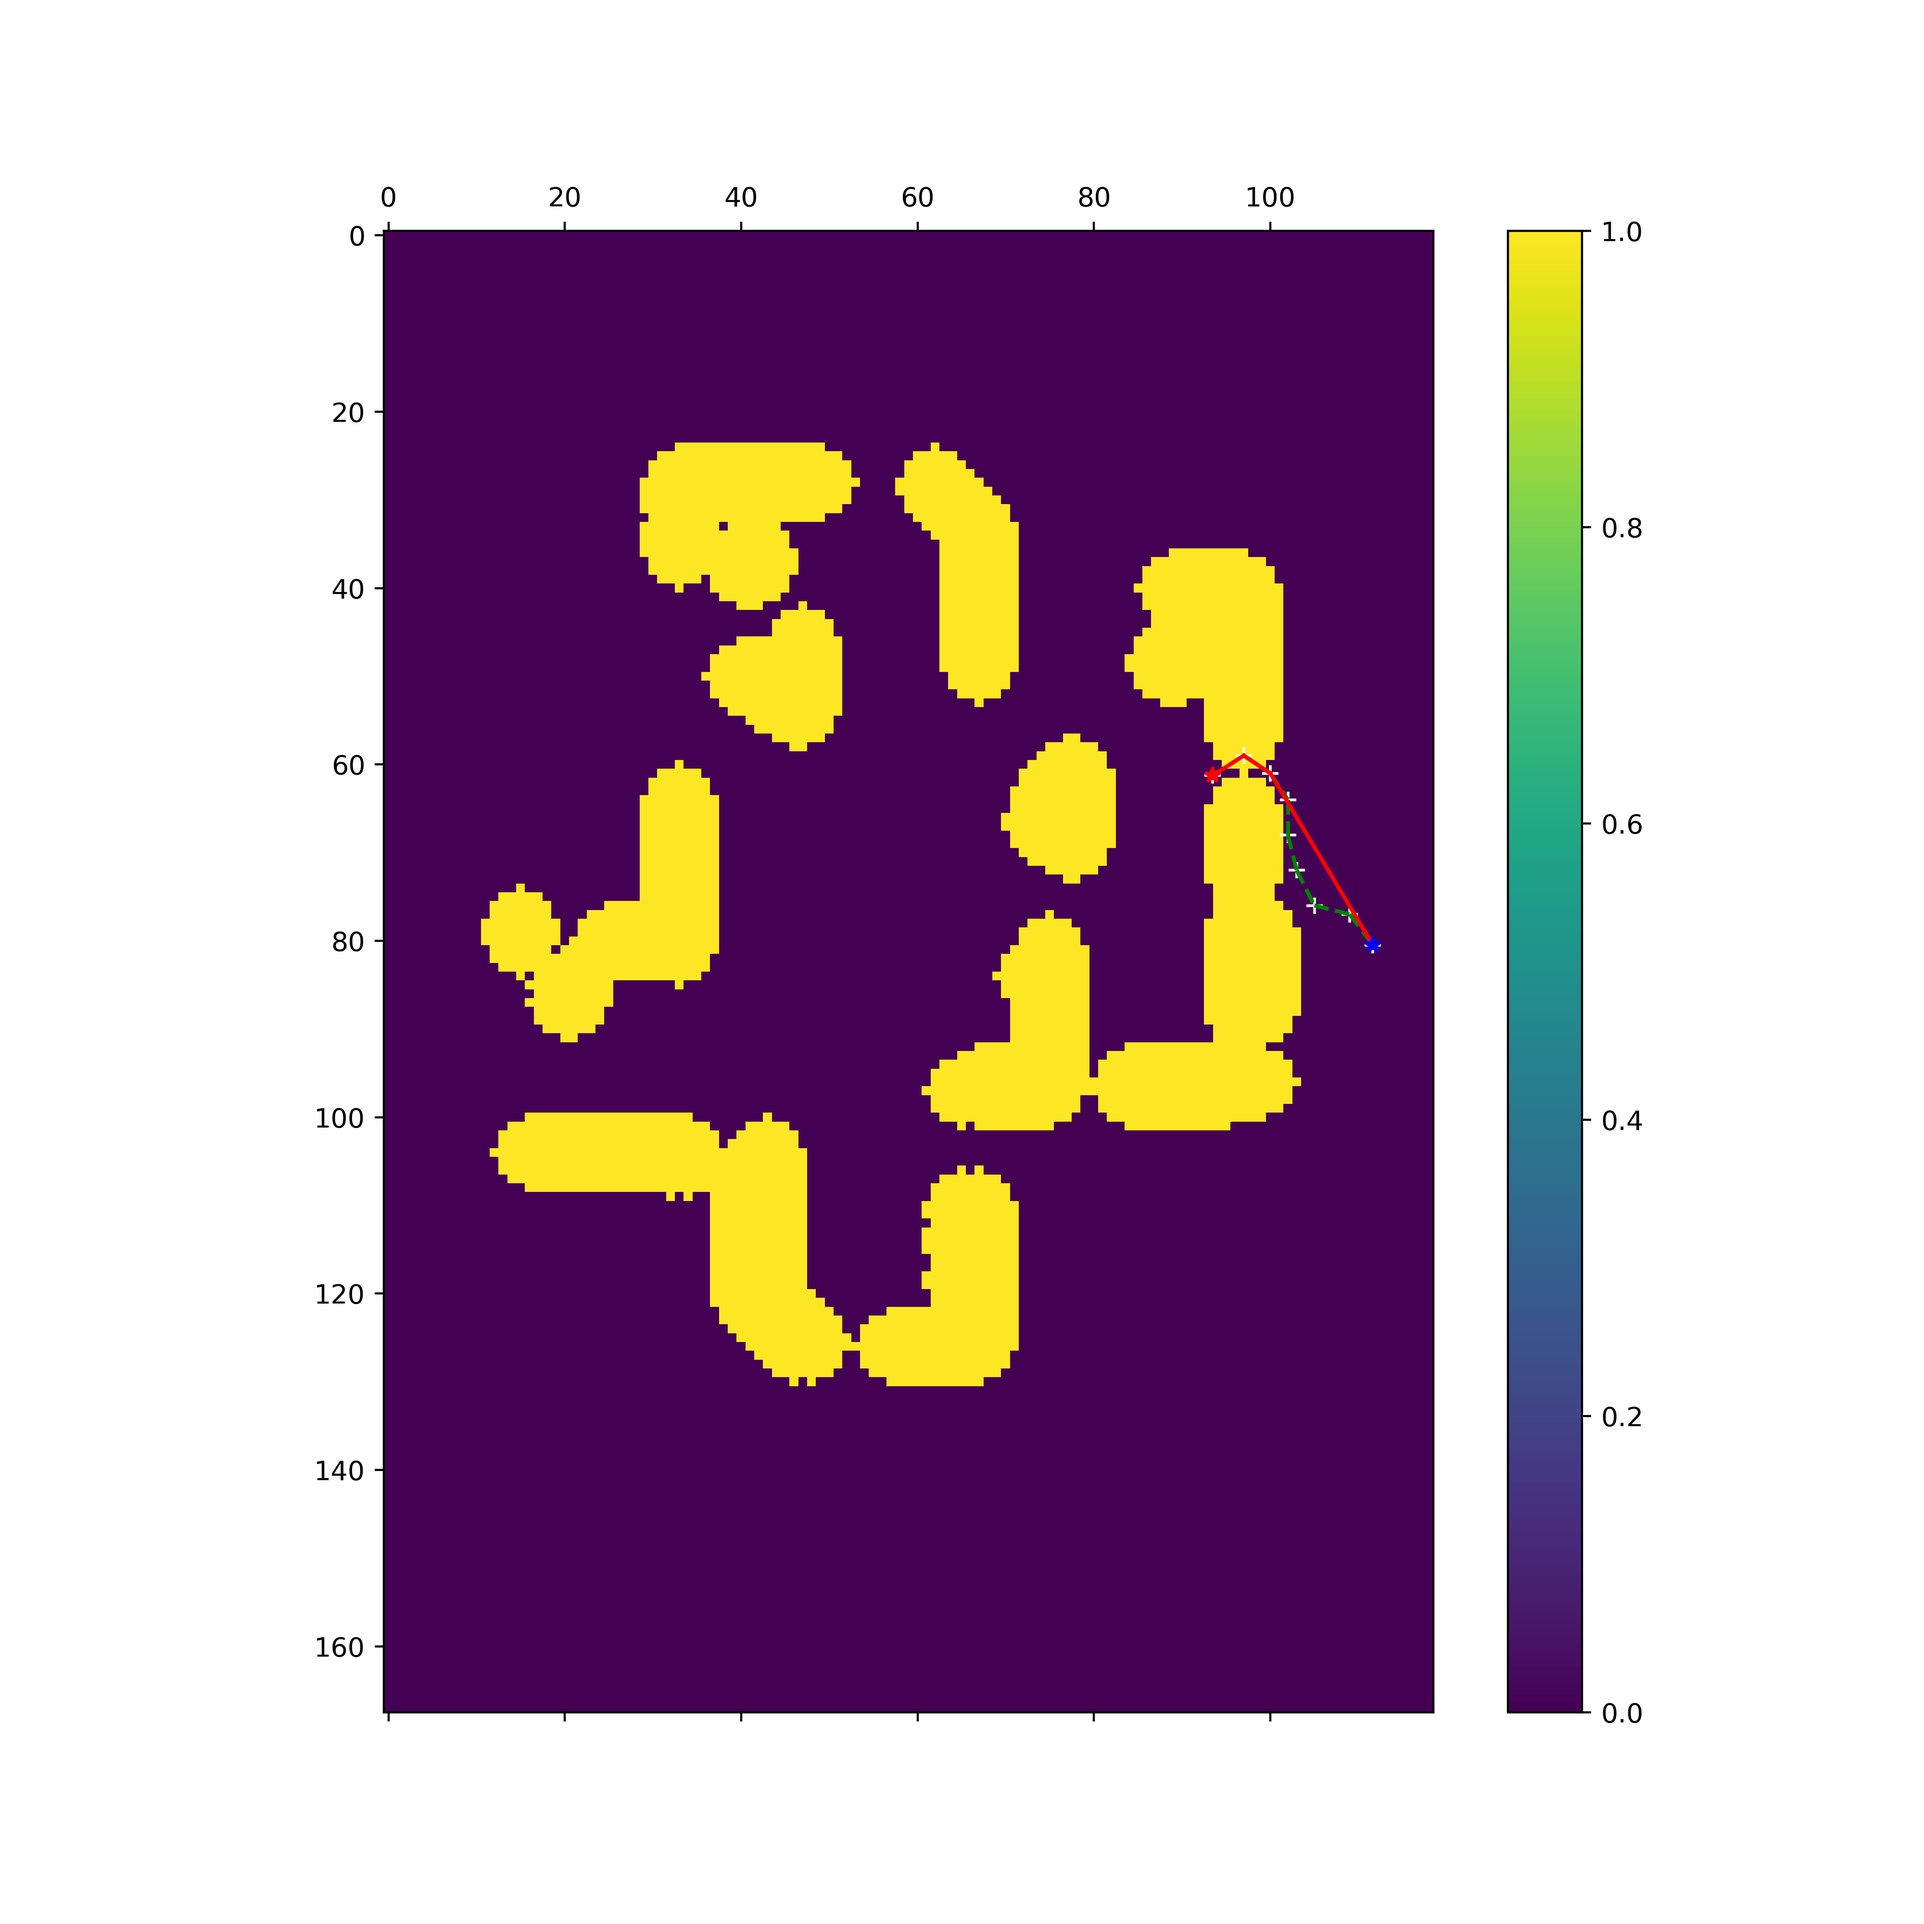
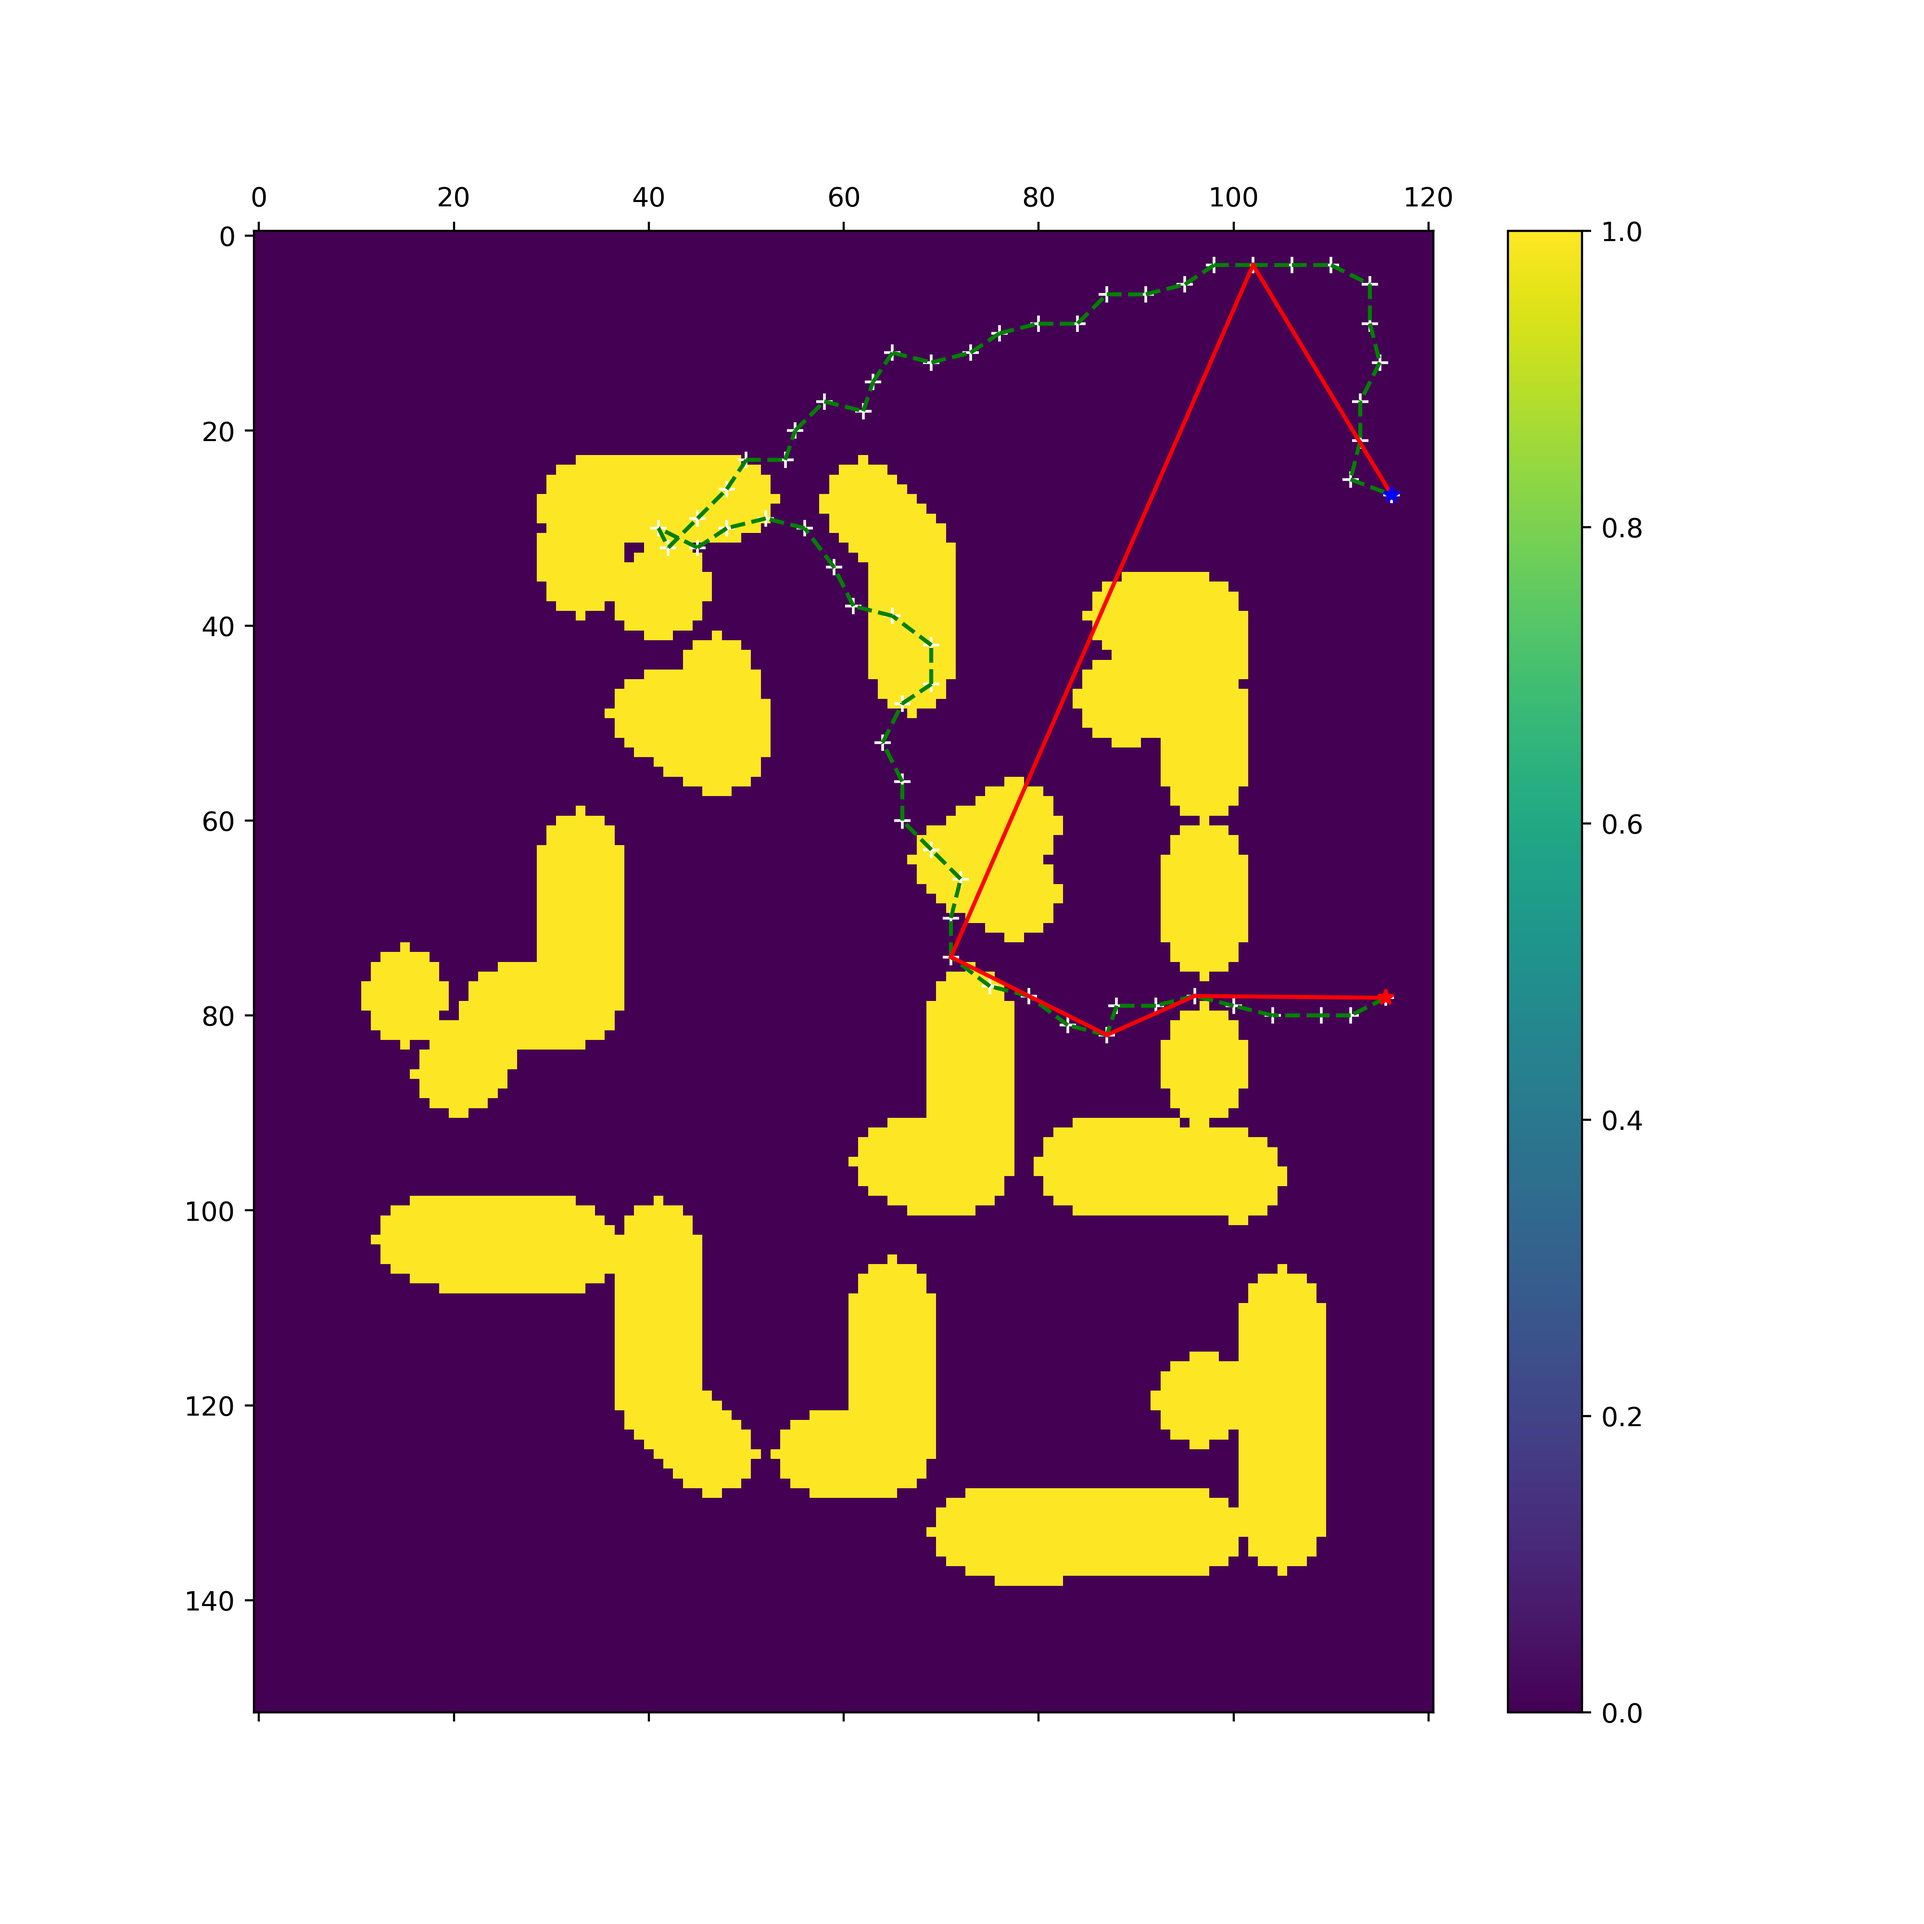
modified _dwa_obstacle_cost function

Changed region(s): [[0.125, 0.0938, 0.7188, 0.9062], [0.6875, 0.1875, 0.7188, 0.25], [0.625, 0.0938, 0.6562, 0.1562]]

diff --git a/src/online_motion_planning/online_motion_planning/frontier_birrt_tb.py b/src/online_motion_planning/online_motion_planning/frontier_birrt_tb.py
@@ -1402,8 +1402,8 @@ class SamplingTurtlebot(Node):
                 penalty += 0.5
             elif val > 10:
                 penalty += 0.2
-        return penalty / max(1, len(sampled))
-
+        # return penalty / max(1, len(sampled))
+        return penalty
     def _dwa_dynamic_window(self):
         """Reachable (v, w) range given the robot's current velocity and
         acceleration limits over one control tick (dt = 0.1 s)."""
@@ -1477,9 +1477,18 @@ class SamplingTurtlebot(Node):
                         self.dwa_velocity_w * (self.max_linear_velocity - v))
 
                 all_paths.append({'v': v, 'w': w, 'traj': traj, 'cost': cost})
+                
+                # DEBUG: Log top candidates for inspection
                 if cost < best_cost:
                     best_cost = cost
                     best_v, best_w = v, w
+                    self.get_logger().debug(
+                        f"[DWA] New best: v={v:.3f}, w={w:.3f}, cost={cost:.4f} "
+                        f"(heading={self.dwa_heading_w*heading_err:.2f}, "
+                        f"dist={self.dwa_dist_w*dist:.2f}, "
+                        f"obs={self.dwa_obstacle_w*obs_cost:.2f}, "
+                        f"vel={self.dwa_velocity_w*(self.max_linear_velocity - v):.2f})"
+                    )
 
         return best_v, best_w, all_paths
 
